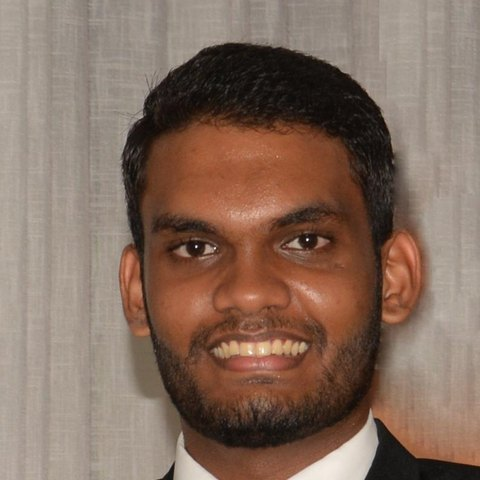
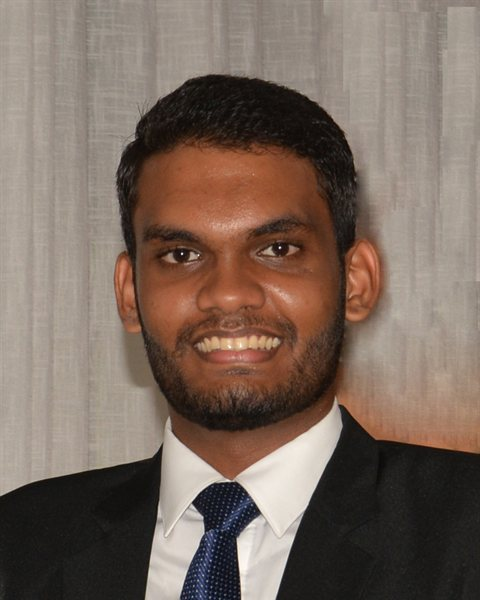
Use head-and-shoulders portraits from original photos

diff --git a/index.html b/index.html
@@ -11,7 +11,7 @@ header h1{font-size:clamp(34px,8vw,52px);font-weight:700;margin:6px 0 6px}
 header p{font-size:15px;opacity:.92;max-width:480px;margin:0 auto}
 main{max-width:1080px;margin:-56px auto 0;padding:0 16px 40px;display:grid;grid-template-columns:repeat(auto-fit,minmax(280px,1fr));gap:18px}
 .card{background:#fff;border-radius:20px;padding:26px 20px 22px;text-align:center;box-shadow:0 10px 30px rgba(76,59,217,.12);border:1px solid #E6E2FA}
-.card img{width:150px;height:150px;border-radius:24px;object-fit:cover;object-position:center 30%;padding:4px;background:linear-gradient(135deg,#2563EB,#7C3AED)}
+.card img{width:176px;height:220px;border-radius:20px;object-fit:cover;padding:4px;background:linear-gradient(135deg,#2563EB,#7C3AED)}
 .card h2{font-size:19px;font-weight:600;margin-top:14px;line-height:1.3}
 .role{display:inline-block;margin-top:6px;font-size:12px;font-weight:600;color:#6D28D9;background:#EFE8FE;border-radius:20px;padding:3px 12px}
 .btns{display:flex;flex-wrap:wrap;justify-content:center;gap:8px;margin-top:16px}
@@ -25,6 +25,6 @@ footer{text-align:center;font-size:13px;color:#6B6985;padding:0 16px 36px}
 footer a{color:#6D28D9;font-weight:600;text-decoration:none}
 </style></head><body>
 <header><div class="k">Meet the team</div><h1>UniVerse</h1><p>The five of us built UniVerse, a student productivity platform, at the University of Moratuwa.</p></header>
-<main><article class="card"><img src="img/rakhitha.jpg" alt="Rakhitha Jayaminda Sooriyabandara" width="150" height="150"><h2>Rakhitha Jayaminda Sooriyabandara</h2><p class="role">Team Lead</p><div class="btns"><a class="b li" href="https://www.linkedin.com/in/rakhitha-sooriyabandara-rs0707" target="_blank" rel="noopener"><svg viewBox="0 0 24 24" fill="currentColor"><path d="M20.45 20.45h-3.56v-5.57c0-1.33-.02-3.04-1.85-3.04-1.85 0-2.14 1.45-2.14 2.94v5.67H9.35V9h3.41v1.56h.05c.48-.9 1.64-1.85 3.37-1.85 3.6 0 4.27 2.37 4.27 5.46v6.28zM5.34 7.43a2.06 2.06 0 1 1 0-4.13 2.06 2.06 0 0 1 0 4.13zM7.12 20.45H3.56V9h3.56v11.45zM22.22 0H1.77C.79 0 0 .77 0 1.73v20.54C0 23.23.79 24 1.77 24h20.45c.98 0 1.78-.77 1.78-1.73V1.73C24 .77 23.2 0 22.22 0z"/></svg><span>LinkedIn</span></a><a class="b gh" href="https://github.com/RJSoori" target="_blank" rel="noopener"><svg viewBox="0 0 24 24" fill="currentColor"><path d="M12 .297c-6.63 0-12 5.373-12 12 0 5.303 3.438 9.8 8.205 11.385.6.113.82-.258.82-.577 0-.285-.01-1.04-.015-2.04-3.338.724-4.042-1.61-4.042-1.61C4.422 18.07 3.633 17.7 3.633 17.7c-1.087-.744.084-.729.084-.729 1.205.084 1.838 1.236 1.838 1.236 1.07 1.835 2.809 1.305 3.495.998.108-.776.417-1.305.76-1.605-2.665-.3-5.466-1.332-5.466-5.93 0-1.31.465-2.38 1.235-3.22-.135-.303-.54-1.523.105-3.176 0 0 1.005-.322 3.3 1.23.96-.267 1.98-.399 3-.405 1.02.006 2.04.138 3 .405 2.28-1.552 3.285-1.23 3.285-1.23.645 1.653.24 2.873.12 3.176.765.84 1.23 1.91 1.23 3.22 0 4.61-2.805 5.625-5.475 5.92.42.36.81 1.096.81 2.22 0 1.606-.015 2.896-.015 3.286 0 .315.21.69.825.57C20.565 22.092 24 17.592 24 12.297c0-6.627-5.373-12-12-12"/></svg><span>GitHub</span></a><a class="b web" href="https://www.rakhithasoori.com" target="_blank" rel="noopener"><svg viewBox="0 0 24 24" fill="none" stroke="currentColor" stroke-width="2" stroke-linecap="round" stroke-linejoin="round"><circle cx="12" cy="12" r="10"/><path d="M2 12h20M12 2a15 15 0 0 1 4 10 15 15 0 0 1-4 10 15 15 0 0 1-4-10 15 15 0 0 1 4-10z"/></svg><span>Portfolio</span></a></div></article><article class="card"><img src="img/nisala.jpg" alt="Nisala Artigala" width="150" height="150"><h2>Nisala Artigala</h2><div class="btns"><a class="b li" href="https://www.linkedin.com/in/nisala-artigala" target="_blank" rel="noopener"><svg viewBox="0 0 24 24" fill="currentColor"><path d="M20.45 20.45h-3.56v-5.57c0-1.33-.02-3.04-1.85-3.04-1.85 0-2.14 1.45-2.14 2.94v5.67H9.35V9h3.41v1.56h.05c.48-.9 1.64-1.85 3.37-1.85 3.6 0 4.27 2.37 4.27 5.46v6.28zM5.34 7.43a2.06 2.06 0 1 1 0-4.13 2.06 2.06 0 0 1 0 4.13zM7.12 20.45H3.56V9h3.56v11.45zM22.22 0H1.77C.79 0 0 .77 0 1.73v20.54C0 23.23.79 24 1.77 24h20.45c.98 0 1.78-.77 1.78-1.73V1.73C24 .77 23.2 0 22.22 0z"/></svg><span>LinkedIn</span></a><a class="b gh" href="https://github.com/Nisala-Artigala" target="_blank" rel="noopener"><svg viewBox="0 0 24 24" fill="currentColor"><path d="M12 .297c-6.63 0-12 5.373-12 12 0 5.303 3.438 9.8 8.205 11.385.6.113.82-.258.82-.577 0-.285-.01-1.04-.015-2.04-3.338.724-4.042-1.61-4.042-1.61C4.422 18.07 3.633 17.7 3.633 17.7c-1.087-.744.084-.729.084-.729 1.205.084 1.838 1.236 1.838 1.236 1.07 1.835 2.809 1.305 3.495.998.108-.776.417-1.305.76-1.605-2.665-.3-5.466-1.332-5.466-5.93 0-1.31.465-2.38 1.235-3.22-.135-.303-.54-1.523.105-3.176 0 0 1.005-.322 3.3 1.23.96-.267 1.98-.399 3-.405 1.02.006 2.04.138 3 .405 2.28-1.552 3.285-1.23 3.285-1.23.645 1.653.24 2.873.12 3.176.765.84 1.23 1.91 1.23 3.22 0 4.61-2.805 5.625-5.475 5.92.42.36.81 1.096.81 2.22 0 1.606-.015 2.896-.015 3.286 0 .315.21.69.825.57C20.565 22.092 24 17.592 24 12.297c0-6.627-5.373-12-12-12"/></svg><span>GitHub</span></a></div></article><article class="card"><img src="img/thisuka.jpg" alt="Thisuka De Silva" width="150" height="150"><h2>Thisuka De Silva</h2><div class="btns"><a class="b li" href="https://www.linkedin.com/in/thisukads" target="_blank" rel="noopener"><svg viewBox="0 0 24 24" fill="currentColor"><path d="M20.45 20.45h-3.56v-5.57c0-1.33-.02-3.04-1.85-3.04-1.85 0-2.14 1.45-2.14 2.94v5.67H9.35V9h3.41v1.56h.05c.48-.9 1.64-1.85 3.37-1.85 3.6 0 4.27 2.37 4.27 5.46v6.28zM5.34 7.43a2.06 2.06 0 1 1 0-4.13 2.06 2.06 0 0 1 0 4.13zM7.12 20.45H3.56V9h3.56v11.45zM22.22 0H1.77C.79 0 0 .77 0 1.73v20.54C0 23.23.79 24 1.77 24h20.45c.98 0 1.78-.77 1.78-1.73V1.73C24 .77 23.2 0 22.22 0z"/></svg><span>LinkedIn</span></a><a class="b gh" href="https://github.com/thisukads" target="_blank" rel="noopener"><svg viewBox="0 0 24 24" fill="currentColor"><path d="M12 .297c-6.63 0-12 5.373-12 12 0 5.303 3.438 9.8 8.205 11.385.6.113.82-.258.82-.577 0-.285-.01-1.04-.015-2.04-3.338.724-4.042-1.61-4.042-1.61C4.422 18.07 3.633 17.7 3.633 17.7c-1.087-.744.084-.729.084-.729 1.205.084 1.838 1.236 1.838 1.236 1.07 1.835 2.809 1.305 3.495.998.108-.776.417-1.305.76-1.605-2.665-.3-5.466-1.332-5.466-5.93 0-1.31.465-2.38 1.235-3.22-.135-.303-.54-1.523.105-3.176 0 0 1.005-.322 3.3 1.23.96-.267 1.98-.399 3-.405 1.02.006 2.04.138 3 .405 2.28-1.552 3.285-1.23 3.285-1.23.645 1.653.24 2.873.12 3.176.765.84 1.23 1.91 1.23 3.22 0 4.61-2.805 5.625-5.475 5.92.42.36.81 1.096.81 2.22 0 1.606-.015 2.896-.015 3.286 0 .315.21.69.825.57C20.565 22.092 24 17.592 24 12.297c0-6.627-5.373-12-12-12"/></svg><span>GitHub</span></a></div></article><article class="card"><img src="img/dinithi.jpg" alt="Dinithi Wickramasinghe" width="150" height="150"><h2>Dinithi Wickramasinghe</h2><div class="btns"><a class="b li" href="https://www.linkedin.com/in/dinithi-wickramasinghe-1b8311312" target="_blank" rel="noopener"><svg viewBox="0 0 24 24" fill="currentColor"><path d="M20.45 20.45h-3.56v-5.57c0-1.33-.02-3.04-1.85-3.04-1.85 0-2.14 1.45-2.14 2.94v5.67H9.35V9h3.41v1.56h.05c.48-.9 1.64-1.85 3.37-1.85 3.6 0 4.27 2.37 4.27 5.46v6.28zM5.34 7.43a2.06 2.06 0 1 1 0-4.13 2.06 2.06 0 0 1 0 4.13zM7.12 20.45H3.56V9h3.56v11.45zM22.22 0H1.77C.79 0 0 .77 0 1.73v20.54C0 23.23.79 24 1.77 24h20.45c.98 0 1.78-.77 1.78-1.73V1.73C24 .77 23.2 0 22.22 0z"/></svg><span>LinkedIn</span></a><a class="b gh" href="https://github.com/Dinithi-Wickramasinghe" target="_blank" rel="noopener"><svg viewBox="0 0 24 24" fill="currentColor"><path d="M12 .297c-6.63 0-12 5.373-12 12 0 5.303 3.438 9.8 8.205 11.385.6.113.82-.258.82-.577 0-.285-.01-1.04-.015-2.04-3.338.724-4.042-1.61-4.042-1.61C4.422 18.07 3.633 17.7 3.633 17.7c-1.087-.744.084-.729.084-.729 1.205.084 1.838 1.236 1.838 1.236 1.07 1.835 2.809 1.305 3.495.998.108-.776.417-1.305.76-1.605-2.665-.3-5.466-1.332-5.466-5.93 0-1.31.465-2.38 1.235-3.22-.135-.303-.54-1.523.105-3.176 0 0 1.005-.322 3.3 1.23.96-.267 1.98-.399 3-.405 1.02.006 2.04.138 3 .405 2.28-1.552 3.285-1.23 3.285-1.23.645 1.653.24 2.873.12 3.176.765.84 1.23 1.91 1.23 3.22 0 4.61-2.805 5.625-5.475 5.92.42.36.81 1.096.81 2.22 0 1.606-.015 2.896-.015 3.286 0 .315.21.69.825.57C20.565 22.092 24 17.592 24 12.297c0-6.627-5.373-12-12-12"/></svg><span>GitHub</span></a></div></article><article class="card"><img src="img/mandira.jpg" alt="Mandira Dewindi" width="150" height="150"><h2>Mandira Dewindi</h2><div class="btns"><a class="b li" href="https://www.linkedin.com/in/mandira-dewindi-388495308" target="_blank" rel="noopener"><svg viewBox="0 0 24 24" fill="currentColor"><path d="M20.45 20.45h-3.56v-5.57c0-1.33-.02-3.04-1.85-3.04-1.85 0-2.14 1.45-2.14 2.94v5.67H9.35V9h3.41v1.56h.05c.48-.9 1.64-1.85 3.37-1.85 3.6 0 4.27 2.37 4.27 5.46v6.28zM5.34 7.43a2.06 2.06 0 1 1 0-4.13 2.06 2.06 0 0 1 0 4.13zM7.12 20.45H3.56V9h3.56v11.45zM22.22 0H1.77C.79 0 0 .77 0 1.73v20.54C0 23.23.79 24 1.77 24h20.45c.98 0 1.78-.77 1.78-1.73V1.73C24 .77 23.2 0 22.22 0z"/></svg><span>LinkedIn</span></a><a class="b gh" href="https://github.com/Mandiiiii-beep" target="_blank" rel="noopener"><svg viewBox="0 0 24 24" fill="currentColor"><path d="M12 .297c-6.63 0-12 5.373-12 12 0 5.303 3.438 9.8 8.205 11.385.6.113.82-.258.82-.577 0-.285-.01-1.04-.015-2.04-3.338.724-4.042-1.61-4.042-1.61C4.422 18.07 3.633 17.7 3.633 17.7c-1.087-.744.084-.729.084-.729 1.205.084 1.838 1.236 1.838 1.236 1.07 1.835 2.809 1.305 3.495.998.108-.776.417-1.305.76-1.605-2.665-.3-5.466-1.332-5.466-5.93 0-1.31.465-2.38 1.235-3.22-.135-.303-.54-1.523.105-3.176 0 0 1.005-.322 3.3 1.23.96-.267 1.98-.399 3-.405 1.02.006 2.04.138 3 .405 2.28-1.552 3.285-1.23 3.285-1.23.645 1.653.24 2.873.12 3.176.765.84 1.23 1.91 1.23 3.22 0 4.61-2.805 5.625-5.475 5.92.42.36.81 1.096.81 2.22 0 1.606-.015 2.896-.015 3.286 0 .315.21.69.825.57C20.565 22.092 24 17.592 24 12.297c0-6.627-5.373-12-12-12"/></svg><span>GitHub</span></a><a class="b web" href="https://mandiiiii-beep.github.io/Mandira_Portfolio/" target="_blank" rel="noopener"><svg viewBox="0 0 24 24" fill="none" stroke="currentColor" stroke-width="2" stroke-linecap="round" stroke-linejoin="round"><circle cx="12" cy="12" r="10"/><path d="M2 12h20M12 2a15 15 0 0 1 4 10 15 15 0 0 1-4 10 15 15 0 0 1-4-10 15 15 0 0 1 4-10z"/></svg><span>Portfolio</span></a></div></article></main>
+<main><article class="card"><img src="img/rakhitha.jpg" alt="Rakhitha Jayaminda Sooriyabandara" width="176" height="220"><h2>Rakhitha Jayaminda Sooriyabandara</h2><p class="role">Team Lead</p><div class="btns"><a class="b li" href="https://www.linkedin.com/in/rakhitha-sooriyabandara-rs0707" target="_blank" rel="noopener"><svg viewBox="0 0 24 24" fill="currentColor"><path d="M20.45 20.45h-3.56v-5.57c0-1.33-.02-3.04-1.85-3.04-1.85 0-2.14 1.45-2.14 2.94v5.67H9.35V9h3.41v1.56h.05c.48-.9 1.64-1.85 3.37-1.85 3.6 0 4.27 2.37 4.27 5.46v6.28zM5.34 7.43a2.06 2.06 0 1 1 0-4.13 2.06 2.06 0 0 1 0 4.13zM7.12 20.45H3.56V9h3.56v11.45zM22.22 0H1.77C.79 0 0 .77 0 1.73v20.54C0 23.23.79 24 1.77 24h20.45c.98 0 1.78-.77 1.78-1.73V1.73C24 .77 23.2 0 22.22 0z"/></svg><span>LinkedIn</span></a><a class="b gh" href="https://github.com/RJSoori" target="_blank" rel="noopener"><svg viewBox="0 0 24 24" fill="currentColor"><path d="M12 .297c-6.63 0-12 5.373-12 12 0 5.303 3.438 9.8 8.205 11.385.6.113.82-.258.82-.577 0-.285-.01-1.04-.015-2.04-3.338.724-4.042-1.61-4.042-1.61C4.422 18.07 3.633 17.7 3.633 17.7c-1.087-.744.084-.729.084-.729 1.205.084 1.838 1.236 1.838 1.236 1.07 1.835 2.809 1.305 3.495.998.108-.776.417-1.305.76-1.605-2.665-.3-5.466-1.332-5.466-5.93 0-1.31.465-2.38 1.235-3.22-.135-.303-.54-1.523.105-3.176 0 0 1.005-.322 3.3 1.23.96-.267 1.98-.399 3-.405 1.02.006 2.04.138 3 .405 2.28-1.552 3.285-1.23 3.285-1.23.645 1.653.24 2.873.12 3.176.765.84 1.23 1.91 1.23 3.22 0 4.61-2.805 5.625-5.475 5.92.42.36.81 1.096.81 2.22 0 1.606-.015 2.896-.015 3.286 0 .315.21.69.825.57C20.565 22.092 24 17.592 24 12.297c0-6.627-5.373-12-12-12"/></svg><span>GitHub</span></a><a class="b web" href="https://www.rakhithasoori.com" target="_blank" rel="noopener"><svg viewBox="0 0 24 24" fill="none" stroke="currentColor" stroke-width="2" stroke-linecap="round" stroke-linejoin="round"><circle cx="12" cy="12" r="10"/><path d="M2 12h20M12 2a15 15 0 0 1 4 10 15 15 0 0 1-4 10 15 15 0 0 1-4-10 15 15 0 0 1 4-10z"/></svg><span>Portfolio</span></a></div></article><article class="card"><img src="img/nisala.jpg" alt="Nisala Artigala" width="176" height="220"><h2>Nisala Artigala</h2><div class="btns"><a class="b li" href="https://www.linkedin.com/in/nisala-artigala" target="_blank" rel="noopener"><svg viewBox="0 0 24 24" fill="currentColor"><path d="M20.45 20.45h-3.56v-5.57c0-1.33-.02-3.04-1.85-3.04-1.85 0-2.14 1.45-2.14 2.94v5.67H9.35V9h3.41v1.56h.05c.48-.9 1.64-1.85 3.37-1.85 3.6 0 4.27 2.37 4.27 5.46v6.28zM5.34 7.43a2.06 2.06 0 1 1 0-4.13 2.06 2.06 0 0 1 0 4.13zM7.12 20.45H3.56V9h3.56v11.45zM22.22 0H1.77C.79 0 0 .77 0 1.73v20.54C0 23.23.79 24 1.77 24h20.45c.98 0 1.78-.77 1.78-1.73V1.73C24 .77 23.2 0 22.22 0z"/></svg><span>LinkedIn</span></a><a class="b gh" href="https://github.com/Nisala-Artigala" target="_blank" rel="noopener"><svg viewBox="0 0 24 24" fill="currentColor"><path d="M12 .297c-6.63 0-12 5.373-12 12 0 5.303 3.438 9.8 8.205 11.385.6.113.82-.258.82-.577 0-.285-.01-1.04-.015-2.04-3.338.724-4.042-1.61-4.042-1.61C4.422 18.07 3.633 17.7 3.633 17.7c-1.087-.744.084-.729.084-.729 1.205.084 1.838 1.236 1.838 1.236 1.07 1.835 2.809 1.305 3.495.998.108-.776.417-1.305.76-1.605-2.665-.3-5.466-1.332-5.466-5.93 0-1.31.465-2.38 1.235-3.22-.135-.303-.54-1.523.105-3.176 0 0 1.005-.322 3.3 1.23.96-.267 1.98-.399 3-.405 1.02.006 2.04.138 3 .405 2.28-1.552 3.285-1.23 3.285-1.23.645 1.653.24 2.873.12 3.176.765.84 1.23 1.91 1.23 3.22 0 4.61-2.805 5.625-5.475 5.92.42.36.81 1.096.81 2.22 0 1.606-.015 2.896-.015 3.286 0 .315.21.69.825.57C20.565 22.092 24 17.592 24 12.297c0-6.627-5.373-12-12-12"/></svg><span>GitHub</span></a></div></article><article class="card"><img src="img/thisuka.jpg" alt="Thisuka De Silva" width="176" height="220"><h2>Thisuka De Silva</h2><div class="btns"><a class="b li" href="https://www.linkedin.com/in/thisukads" target="_blank" rel="noopener"><svg viewBox="0 0 24 24" fill="currentColor"><path d="M20.45 20.45h-3.56v-5.57c0-1.33-.02-3.04-1.85-3.04-1.85 0-2.14 1.45-2.14 2.94v5.67H9.35V9h3.41v1.56h.05c.48-.9 1.64-1.85 3.37-1.85 3.6 0 4.27 2.37 4.27 5.46v6.28zM5.34 7.43a2.06 2.06 0 1 1 0-4.13 2.06 2.06 0 0 1 0 4.13zM7.12 20.45H3.56V9h3.56v11.45zM22.22 0H1.77C.79 0 0 .77 0 1.73v20.54C0 23.23.79 24 1.77 24h20.45c.98 0 1.78-.77 1.78-1.73V1.73C24 .77 23.2 0 22.22 0z"/></svg><span>LinkedIn</span></a><a class="b gh" href="https://github.com/thisukads" target="_blank" rel="noopener"><svg viewBox="0 0 24 24" fill="currentColor"><path d="M12 .297c-6.63 0-12 5.373-12 12 0 5.303 3.438 9.8 8.205 11.385.6.113.82-.258.82-.577 0-.285-.01-1.04-.015-2.04-3.338.724-4.042-1.61-4.042-1.61C4.422 18.07 3.633 17.7 3.633 17.7c-1.087-.744.084-.729.084-.729 1.205.084 1.838 1.236 1.838 1.236 1.07 1.835 2.809 1.305 3.495.998.108-.776.417-1.305.76-1.605-2.665-.3-5.466-1.332-5.466-5.93 0-1.31.465-2.38 1.235-3.22-.135-.303-.54-1.523.105-3.176 0 0 1.005-.322 3.3 1.23.96-.267 1.98-.399 3-.405 1.02.006 2.04.138 3 .405 2.28-1.552 3.285-1.23 3.285-1.23.645 1.653.24 2.873.12 3.176.765.84 1.23 1.91 1.23 3.22 0 4.61-2.805 5.625-5.475 5.92.42.36.81 1.096.81 2.22 0 1.606-.015 2.896-.015 3.286 0 .315.21.69.825.57C20.565 22.092 24 17.592 24 12.297c0-6.627-5.373-12-12-12"/></svg><span>GitHub</span></a></div></article><article class="card"><img src="img/dinithi.jpg" alt="Dinithi Wickramasinghe" width="176" height="220"><h2>Dinithi Wickramasinghe</h2><div class="btns"><a class="b li" href="https://www.linkedin.com/in/dinithi-wickramasinghe-1b8311312" target="_blank" rel="noopener"><svg viewBox="0 0 24 24" fill="currentColor"><path d="M20.45 20.45h-3.56v-5.57c0-1.33-.02-3.04-1.85-3.04-1.85 0-2.14 1.45-2.14 2.94v5.67H9.35V9h3.41v1.56h.05c.48-.9 1.64-1.85 3.37-1.85 3.6 0 4.27 2.37 4.27 5.46v6.28zM5.34 7.43a2.06 2.06 0 1 1 0-4.13 2.06 2.06 0 0 1 0 4.13zM7.12 20.45H3.56V9h3.56v11.45zM22.22 0H1.77C.79 0 0 .77 0 1.73v20.54C0 23.23.79 24 1.77 24h20.45c.98 0 1.78-.77 1.78-1.73V1.73C24 .77 23.2 0 22.22 0z"/></svg><span>LinkedIn</span></a><a class="b gh" href="https://github.com/Dinithi-Wickramasinghe" target="_blank" rel="noopener"><svg viewBox="0 0 24 24" fill="currentColor"><path d="M12 .297c-6.63 0-12 5.373-12 12 0 5.303 3.438 9.8 8.205 11.385.6.113.82-.258.82-.577 0-.285-.01-1.04-.015-2.04-3.338.724-4.042-1.61-4.042-1.61C4.422 18.07 3.633 17.7 3.633 17.7c-1.087-.744.084-.729.084-.729 1.205.084 1.838 1.236 1.838 1.236 1.07 1.835 2.809 1.305 3.495.998.108-.776.417-1.305.76-1.605-2.665-.3-5.466-1.332-5.466-5.93 0-1.31.465-2.38 1.235-3.22-.135-.303-.54-1.523.105-3.176 0 0 1.005-.322 3.3 1.23.96-.267 1.98-.399 3-.405 1.02.006 2.04.138 3 .405 2.28-1.552 3.285-1.23 3.285-1.23.645 1.653.24 2.873.12 3.176.765.84 1.23 1.91 1.23 3.22 0 4.61-2.805 5.625-5.475 5.92.42.36.81 1.096.81 2.22 0 1.606-.015 2.896-.015 3.286 0 .315.21.69.825.57C20.565 22.092 24 17.592 24 12.297c0-6.627-5.373-12-12-12"/></svg><span>GitHub</span></a></div></article><article class="card"><img src="img/mandira.jpg" alt="Mandira Dewindi" width="176" height="220"><h2>Mandira Dewindi</h2><div class="btns"><a class="b li" href="https://www.linkedin.com/in/mandira-dewindi-388495308" target="_blank" rel="noopener"><svg viewBox="0 0 24 24" fill="currentColor"><path d="M20.45 20.45h-3.56v-5.57c0-1.33-.02-3.04-1.85-3.04-1.85 0-2.14 1.45-2.14 2.94v5.67H9.35V9h3.41v1.56h.05c.48-.9 1.64-1.85 3.37-1.85 3.6 0 4.27 2.37 4.27 5.46v6.28zM5.34 7.43a2.06 2.06 0 1 1 0-4.13 2.06 2.06 0 0 1 0 4.13zM7.12 20.45H3.56V9h3.56v11.45zM22.22 0H1.77C.79 0 0 .77 0 1.73v20.54C0 23.23.79 24 1.77 24h20.45c.98 0 1.78-.77 1.78-1.73V1.73C24 .77 23.2 0 22.22 0z"/></svg><span>LinkedIn</span></a><a class="b gh" href="https://github.com/Mandiiiii-beep" target="_blank" rel="noopener"><svg viewBox="0 0 24 24" fill="currentColor"><path d="M12 .297c-6.63 0-12 5.373-12 12 0 5.303 3.438 9.8 8.205 11.385.6.113.82-.258.82-.577 0-.285-.01-1.04-.015-2.04-3.338.724-4.042-1.61-4.042-1.61C4.422 18.07 3.633 17.7 3.633 17.7c-1.087-.744.084-.729.084-.729 1.205.084 1.838 1.236 1.838 1.236 1.07 1.835 2.809 1.305 3.495.998.108-.776.417-1.305.76-1.605-2.665-.3-5.466-1.332-5.466-5.93 0-1.31.465-2.38 1.235-3.22-.135-.303-.54-1.523.105-3.176 0 0 1.005-.322 3.3 1.23.96-.267 1.98-.399 3-.405 1.02.006 2.04.138 3 .405 2.28-1.552 3.285-1.23 3.285-1.23.645 1.653.24 2.873.12 3.176.765.84 1.23 1.91 1.23 3.22 0 4.61-2.805 5.625-5.475 5.92.42.36.81 1.096.81 2.22 0 1.606-.015 2.896-.015 3.286 0 .315.21.69.825.57C20.565 22.092 24 17.592 24 12.297c0-6.627-5.373-12-12-12"/></svg><span>GitHub</span></a><a class="b web" href="https://mandiiiii-beep.github.io/Mandira_Portfolio/" target="_blank" rel="noopener"><svg viewBox="0 0 24 24" fill="none" stroke="currentColor" stroke-width="2" stroke-linecap="round" stroke-linejoin="round"><circle cx="12" cy="12" r="10"/><path d="M2 12h20M12 2a15 15 0 0 1 4 10 15 15 0 0 1-4 10 15 15 0 0 1-4-10 15 15 0 0 1 4-10z"/></svg><span>Portfolio</span></a></div></article></main>
 <footer>See the code on <a href="https://github.com/RJSoori/UniVerse" target="_blank" rel="noopener">GitHub</a></footer>
 </body></html>
